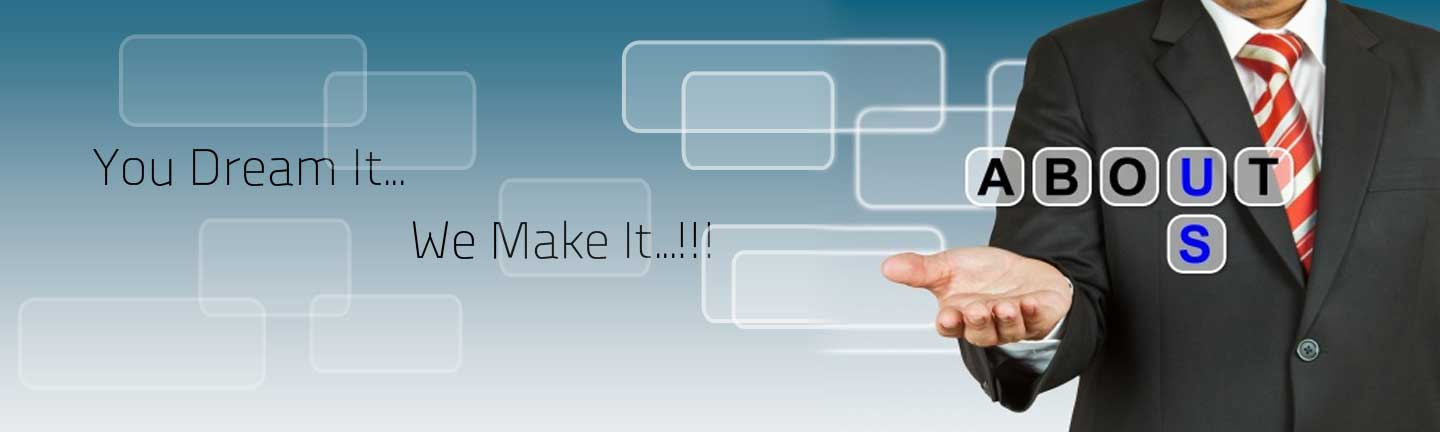
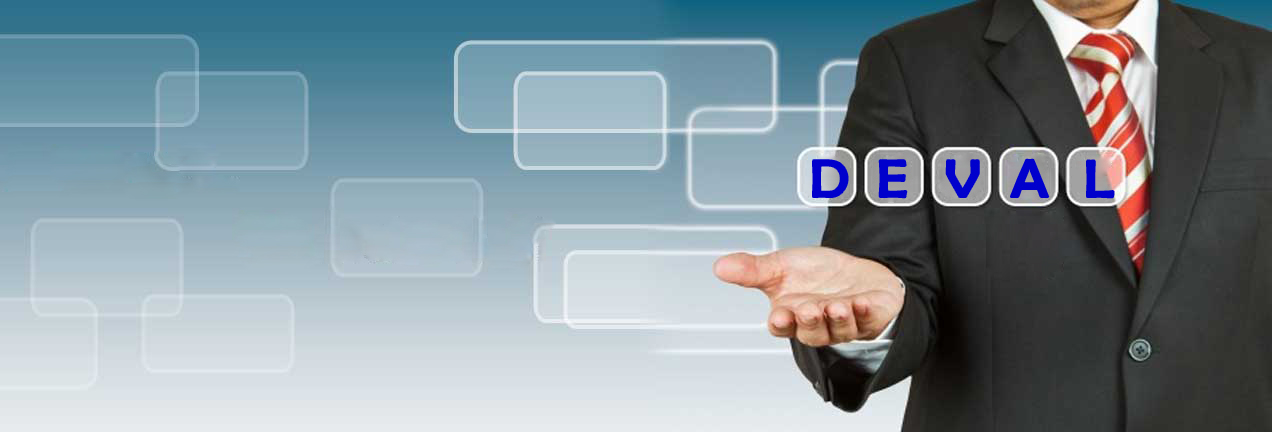
new images

diff --git a/services.html b/services.html
@@ -163,7 +163,7 @@
                         <br/>
                         <p>Ayudamos a transformar tus ideas en innovaciones Informáticas. Te asesoramos en todo el ciclo de desarrollo de software, desde su concepción hasta su puesta en marcha.</p>
                     </div>
-                    <div class="one_half last"><img src="images/Cloud-computing-Services.png" alt="" class="img_size1" /></div>
+                    <div class="one_half last"><img src="images/Cloud-computing-Servicios-deval.jpg" alt="" class="img_size1" /></div>
                 </div>
             </div>
             <!--end section-->

diff --git a/css/style.css b/css/style.css
@@ -3136,7 +3136,7 @@ label.custom-select {
 }
 
 .services {
-    background: url(../images/Cloud-computing-Services.png) 0px 0px no-repeat;
+    background: url(../images/Cloud-computing-Servicios-deval-2.jpg) 0px 0px no-repeat;
 }
 
 .header_medium .bigtext {
